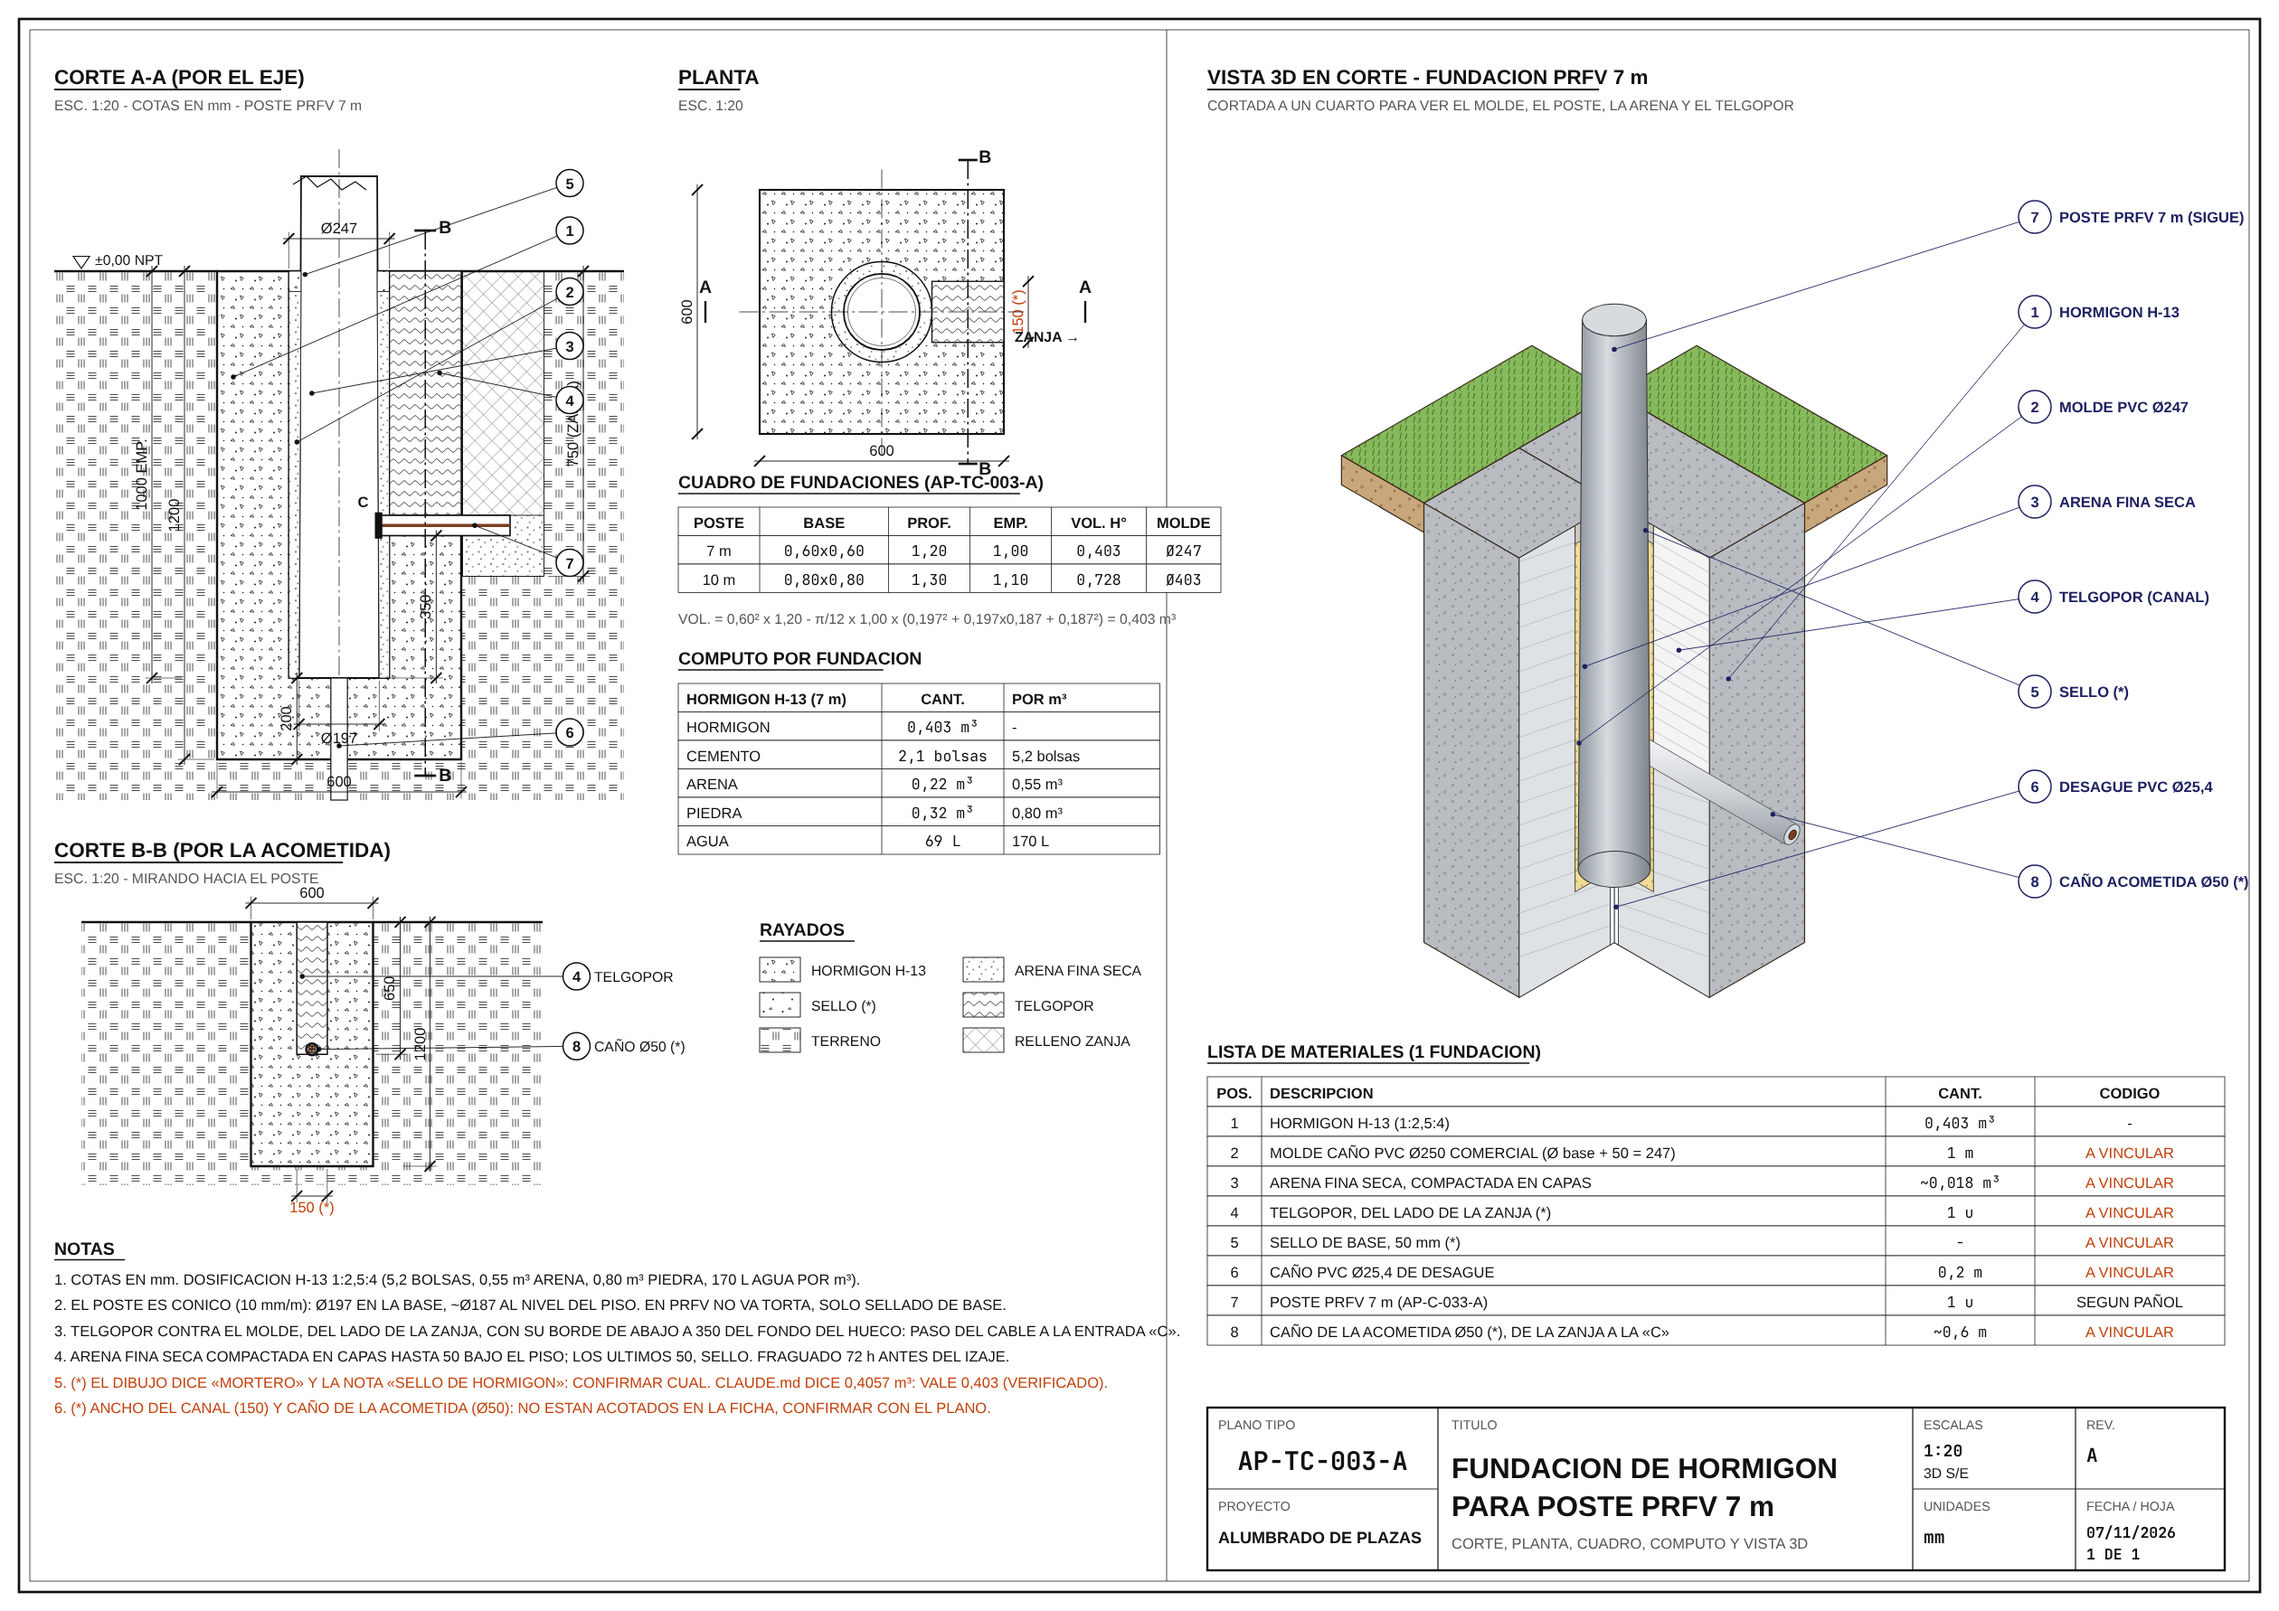
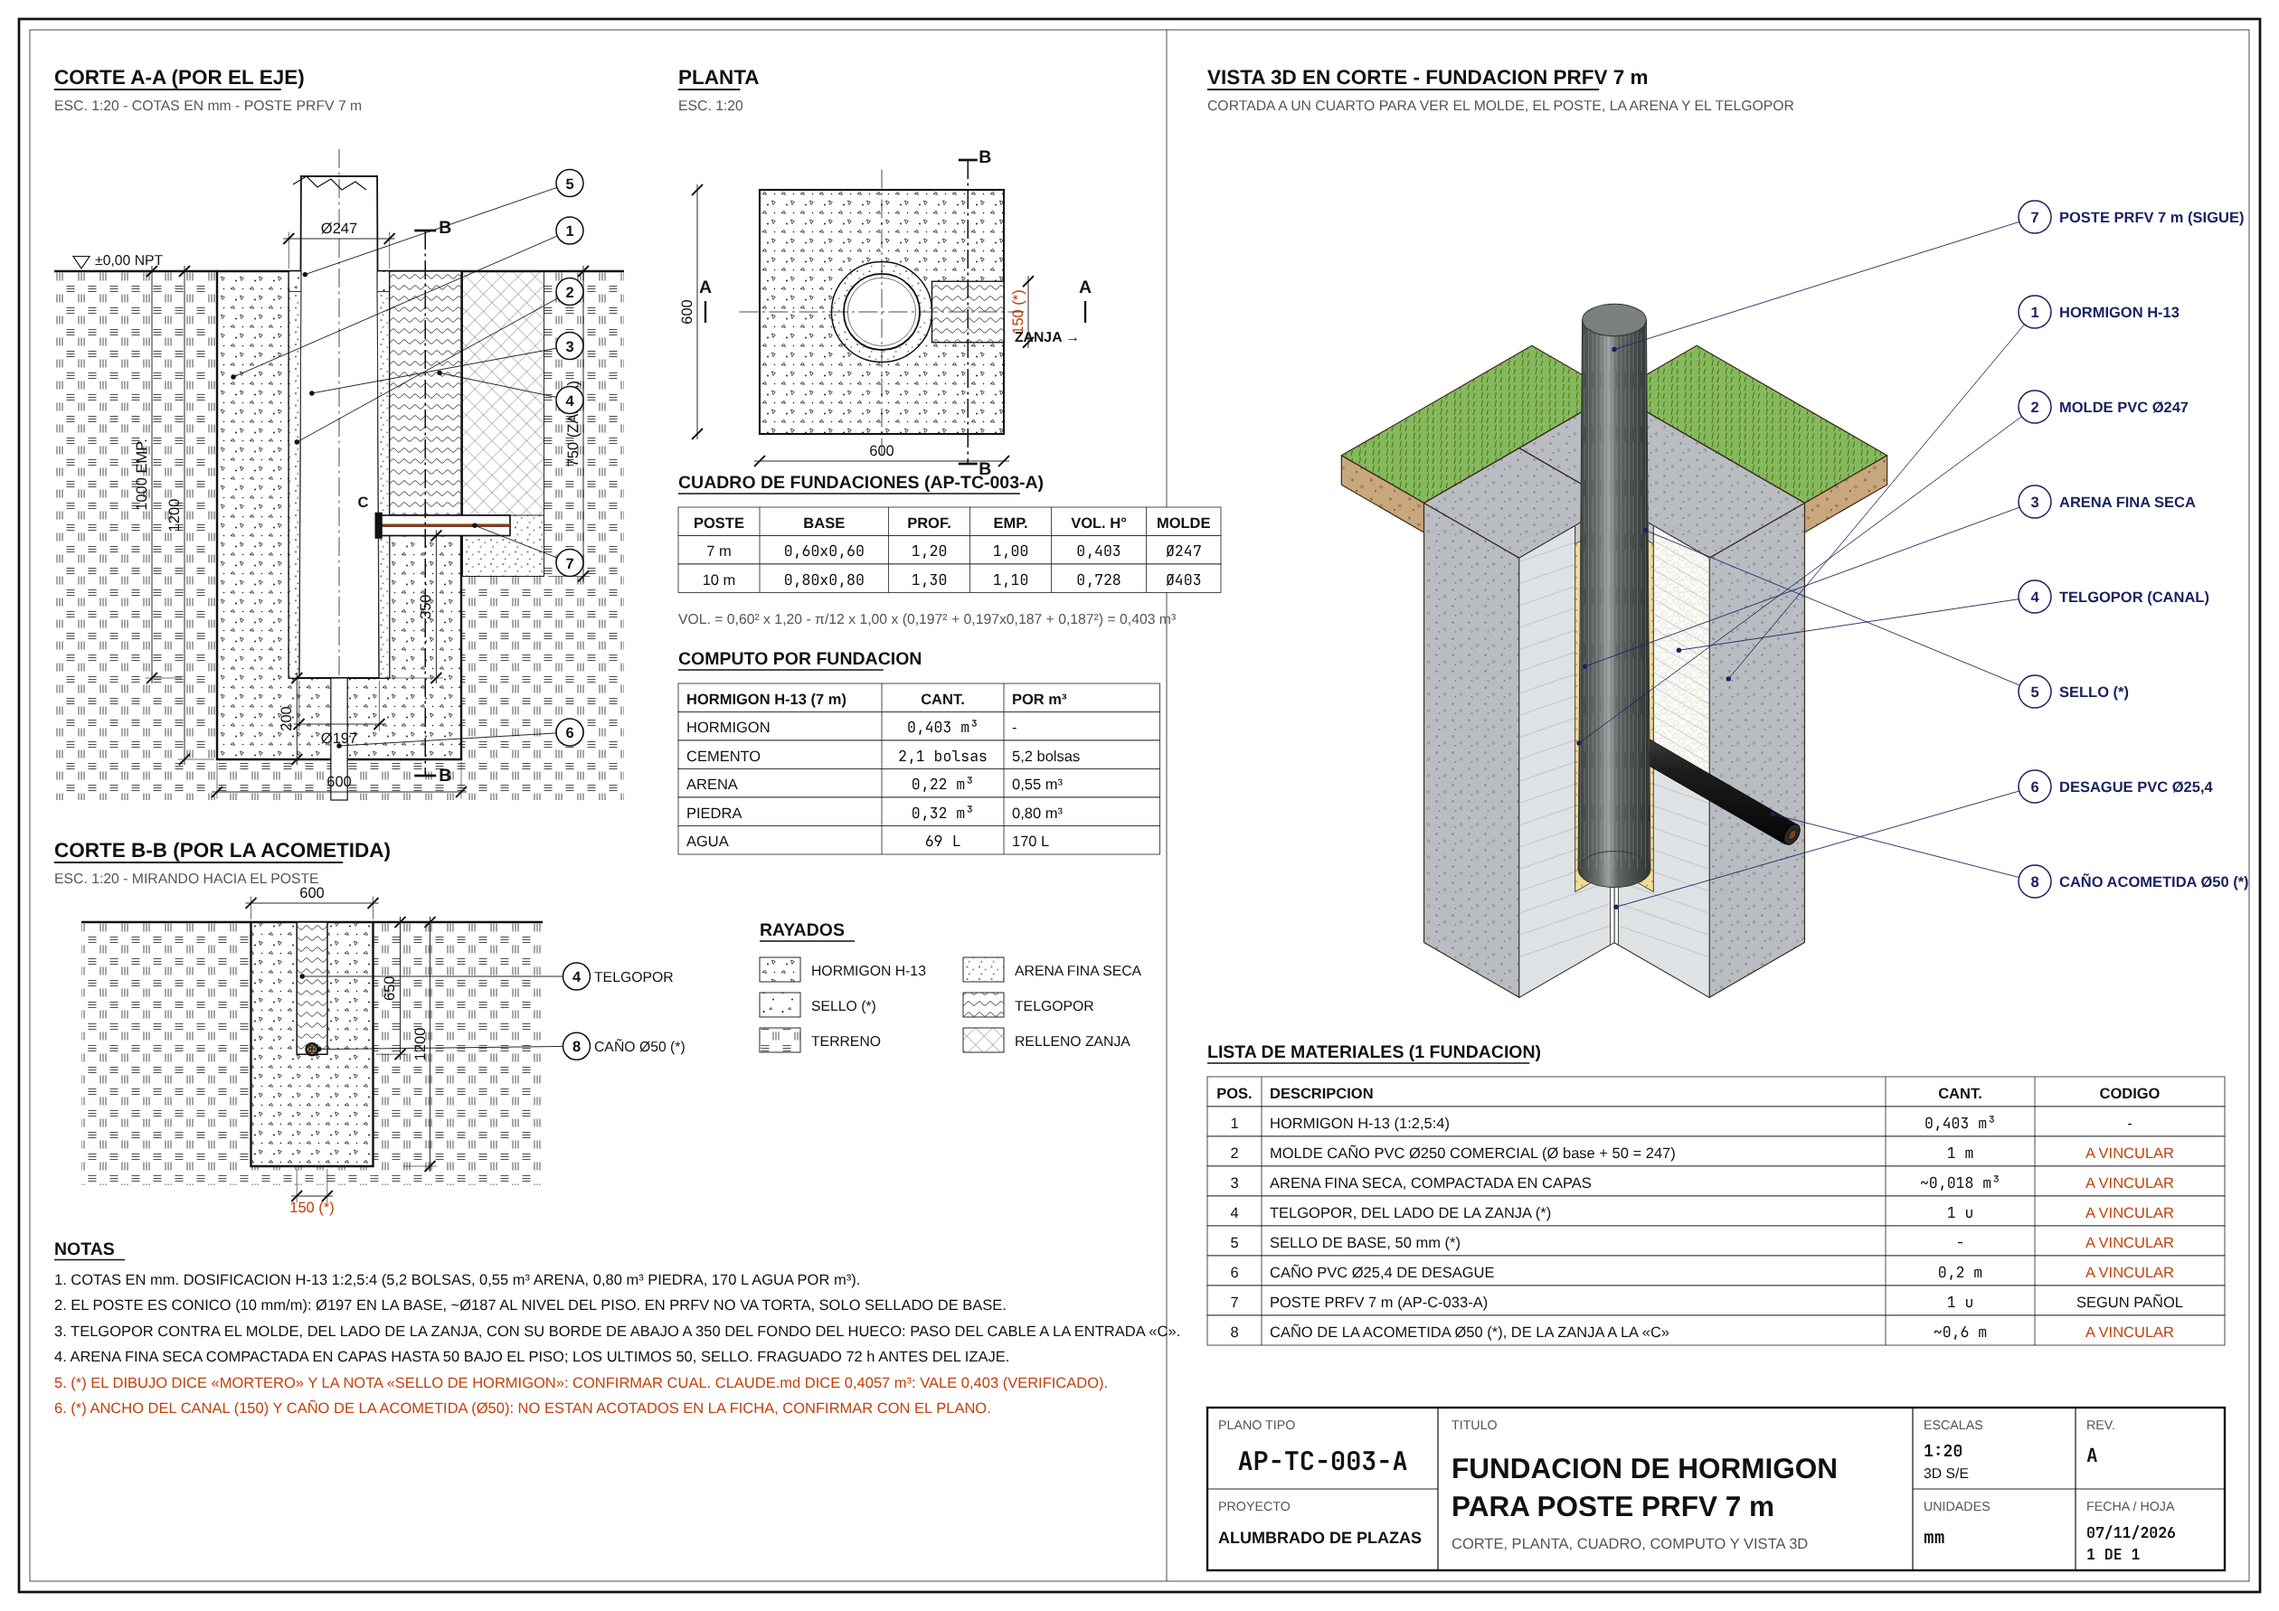
planos-tecnicos-ema: regla de materiales en el 3D (cada uno con color y textura propios; PRFV RAL 7043 con veta)
Claude-Session: https://claude.ai/code/session_01RXXMejSZKPShHcsNSB2vcm

Changed region(s): [[0.681, 0.1852, 0.8048, 0.5556]]

diff --git a/.claude/skills/planos-tecnicos-ema/scripts/planokit.py b/.claude/skills/planos-tecnicos-ema/scripts/planokit.py
@@ -8,6 +8,10 @@ K = "#111"; G = "#555"; OR = "#c2410c"; NV = "#1d2160"
 CAD = 'font-family="Arial Narrow,Roboto Condensed,Arial,sans-serif"'
 MONO = 'font-family="JetBrains Mono,monospace"'
 INT = 'font-family="Inter,Arial"'
+# MATERIALES EN 3D (regla de Ángel, 07/11/2026): cada material con color y textura propios; nunca dos vecinos parecidos.
+#  hormigón conc3 (gris claro, opaco, con áridos) · hormigón pobre concP3 (gris beige) · PRFV prfv + fibra (RAL 7043, gris oscuro
+#  satinado con veta) · acero galvanizado galv (gris azulado con brillo) · PVC pvc (gris muy claro, brillante) · PEAD pead (negro) ·
+#  bronce bronce · cobre cobre · arena sand3 · tierra soil3 · pasto grass · ladrillo lad3 · telgopor foam3 · malla mesh · asfalto asph3
 # colores de fase (AEA 90364): L1 marrón · L2 negro · L3 rojo · N celeste
 CORES = [("#7b3f1d", "L1 MARRON"), ("#1a1a1a", "L2 NEGRO"), ("#c62828", "L3 ROJO"), ("#4fa3d9", "N CELESTE")]
 DEFS = '''<defs>
@@ -28,7 +32,14 @@ DEFS = '''<defs>
 <pattern id="asph3" width="10" height="10" patternUnits="userSpaceOnUse"><rect width="10" height="10" fill="#4b4b4b"/><circle cx="3" cy="3" r=".9" fill="#6a6a6a"/><circle cx="8" cy="7" r=".8" fill="#5c5c5c"/></pattern>
 <linearGradient id="cyl" x1="0" y1="0" x2="0" y2="1"><stop offset="0" stop-color="#555"/><stop offset=".35" stop-color="#2a2a2a"/><stop offset="1" stop-color="#0d0d0d"/></linearGradient>
 <linearGradient id="pvc" x1="0" y1="0" x2="0" y2="1"><stop offset="0" stop-color="#f3f4f6"/><stop offset=".5" stop-color="#cfd3d8"/><stop offset="1" stop-color="#9aa0a6"/></linearGradient>
-<linearGradient id="prfv" x1="0" y1="0" x2="1" y2="0"><stop offset="0" stop-color="#8d949b"/><stop offset=".4" stop-color="#d7dbe0"/><stop offset="1" stop-color="#7d848b"/></linearGradient>
+<linearGradient id="prfv" x1="0" y1="0" x2="1" y2="0"><stop offset="0" stop-color="#3b403f"/><stop offset=".28" stop-color="#6b716f"/><stop offset=".42" stop-color="#9aa09d"/><stop offset=".55" stop-color="#5f6563"/><stop offset="1" stop-color="#2f3332"/></linearGradient>
+<pattern id="fibra" width="6" height="40" patternUnits="userSpaceOnUse"><path d="M1,0 V40 M4,6 V34" stroke="#c9cfcc" stroke-width=".35" opacity=".45"/></pattern>
+<linearGradient id="galv" x1="0" y1="0" x2="1" y2="0"><stop offset="0" stop-color="#7f8b96"/><stop offset=".35" stop-color="#dfe6ec"/><stop offset=".5" stop-color="#aab6c0"/><stop offset="1" stop-color="#6c7883"/></linearGradient>
+<linearGradient id="pead" x1="0" y1="0" x2="0" y2="1"><stop offset="0" stop-color="#3a3a3a"/><stop offset=".3" stop-color="#1c1c1c"/><stop offset="1" stop-color="#050505"/></linearGradient>
+<linearGradient id="bronce" x1="0" y1="0" x2="1" y2="1"><stop offset="0" stop-color="#e3b765"/><stop offset=".5" stop-color="#b9862f"/><stop offset="1" stop-color="#8a5f1c"/></linearGradient>
+<linearGradient id="cobre" x1="0" y1="0" x2="1" y2="0"><stop offset="0" stop-color="#9c5a1c"/><stop offset=".5" stop-color="#f0a860"/><stop offset="1" stop-color="#9c5a1c"/></linearGradient>
+<pattern id="foam3" width="9" height="9" patternUnits="userSpaceOnUse"><rect width="9" height="9" fill="#fbfbf7"/><circle cx="2.5" cy="2.5" r="2" fill="none" stroke="#d8d8cc" stroke-width=".5"/><circle cx="7" cy="6.5" r="2.2" fill="none" stroke="#d8d8cc" stroke-width=".5"/></pattern>
+<pattern id="lad3" width="26" height="13" patternUnits="userSpaceOnUse"><rect width="26" height="13" fill="#d9775a"/><path d="M0,.5 H26 M0,6.5 H26 M13,.5 V6.5 M0,6.5 V12.5" stroke="#8a3a24" stroke-width=".8" fill="none"/></pattern>
 </defs>'''
 
 class Hoja:
@@ -138,7 +149,10 @@ class Hoja:
         p0 = self.P(xc, yc, z0); p1 = self.P(xc, yc, z1)
         self.a(f'<polygon points="{p0[0]-w0:.1f},{p0[1]:.1f} {p1[0]-w1:.1f},{p1[1]:.1f} {p1[0]+w1:.1f},{p1[1]:.1f} {p0[0]+w0:.1f},{p0[1]:.1f}" fill="{fill}" stroke="{st}" stroke-width=".7"/>')
         self.a(f'<ellipse cx="{p0[0]:.1f}" cy="{p0[1]:.1f}" rx="{w0:.1f}" ry="{w0*.5:.1f}" fill="{fill}" stroke="{st}" stroke-width=".7"/>')
-        self.a(f'<ellipse cx="{p1[0]:.1f}" cy="{p1[1]:.1f}" rx="{w1:.1f}" ry="{w1*.5:.1f}" fill="#d7dbe0" stroke="{st}" stroke-width=".7"/>')
+        if fill == "url(#prfv)":   # PRFV: veta de la fibra a lo largo del poste
+            self.a(f'<polygon points="{p0[0]-w0:.1f},{p0[1]:.1f} {p1[0]-w1:.1f},{p1[1]:.1f} {p1[0]+w1:.1f},{p1[1]:.1f} {p0[0]+w0:.1f},{p0[1]:.1f}" fill="url(#fibra)" stroke="none"/>')
+        tapa = "#7a807e" if fill == "url(#prfv)" else "#d7dbe0"
+        self.a(f'<ellipse cx="{p1[0]:.1f}" cy="{p1[1]:.1f}" rx="{w1:.1f}" ry="{w1*.5:.1f}" fill="{tapa}" stroke="{st}" stroke-width=".7"/>')
     def g3(self, n, p, gx, gy, texto, c=NV):
         x, y = self.P(*p); self.globo(n, x, y, gx, gy, c, 12); self.txt(gx + 18, gy + 4, texto, 11, 700, c)
     def guardar(self, ruta):

diff --git a/.claude/skills/planos-tecnicos-ema/ejemplos/ap_tc_003a.py b/.claude/skills/planos-tecnicos-ema/ejemplos/ap_tc_003a.py
@@ -122,12 +122,12 @@ for zh in range(-1150,0,60):
 cara_y(c0,c0+rm,-Ez,0,"url(#sand3)"); cara_x(c0,c0+rm,-Ez,0,"url(#sand3)")
 cara_y(c0,c0+rm,-50,0,"url(#concP3)"); cara_x(c0,c0+rm,-50,0,"url(#concP3)")
 # telgopor del lado de la zanja (+x), borde de abajo a -650
-cara_y(c0+rm,Bz,-650+50,0,"#f4f4f4")
+cara_y(c0+rm,Bz,-650+50,0,"url(#foam3)")
 for z in range(-560,0,40):
     a1=h.P(c0+rm,c0,z); b1=h.P(Bz,c0,z); h.ln(*a1,*b1,"#bbb",.5)
 # canal del cable al borde exterior (+x) a la altura de la entrada «C»
-h.tuboX(c0+rp0,Bz+260,c0,-625,25,"url(#pvc)","#555")
-h.poly3(h.circX(Bz+260,c0,-625,25),"#d6d9dd","#555",.7); h.poly3(h.circX(Bz+262,c0,-625,12,16),"#7b3f1d","#000",.5)
+h.tuboX(c0+rp0,Bz+260,c0,-625,25,"url(#pead)","#000")
+h.poly3(h.circX(Bz+260,c0,-625,25),"#2a2a2a","#000",.7); h.poly3(h.circX(Bz+262,c0,-625,12,16),"#7b3f1d","#000",.5)
 # desagüe
 cara_y(c0,c0+13,-Pz,-Ez,"#fff"); cara_x(c0,c0+13,-Pz,-Ez,"#fff")
 # poste (cono) entero arriba y su mitad en el corte

diff --git a/.claude/skills/planos-tecnicos-ema/SKILL.md b/.claude/skills/planos-tecnicos-ema/SKILL.md
@@ -38,6 +38,27 @@ description: Estilo y método para dibujar los planos técnicos de EMA (tipos co
   - plano: Arial Narrow en MAYÚSCULAS;
   - números de tabla: JetBrains Mono;
   - texto del 3D: Inter.
+- **Materiales en el 3D: cada uno con su color y su textura, fieles a la realidad** (pedido de Ángel, 07/11/2026). **Nunca dos materiales vecinos que se parezcan.**
+
+  | Material | Patrón | Cómo se ve |
+  |---|---|---|
+  | Hormigón | `conc3` | gris claro, opaco, con áridos |
+  | Hormigón pobre o sello | `concP3` | gris beige |
+  | Poste PRFV | `prfv` | gris RAL 7043, oscuro y satinado, con la veta de la fibra (`fibra`); **no se tiene que parecer al hormigón** |
+  | Acero galvanizado | `galv` | gris azulado con brillo |
+  | PVC | `pvc` | gris muy claro y brillante |
+  | PEAD | `pead` | negro |
+  | Bronce y cobre | `bronce`, `cobre` | sus colores |
+  | Arena | `sand3` | — |
+  | Tierra | `soil3` | — |
+  | Pasto | `grass` | — |
+  | Ladrillo | `lad3` | con juntas |
+  | Telgopor | `foam3` | blanco con celdas |
+  | Malla de advertencia | `mesh` | naranja |
+  | Asfalto | `asph3` | — |
+  | Cables | — | cubierta negra; conductores marrón, negro, rojo, celeste; cobre |
+
+  Revisá en la imagen que se distingan.
 - **3D:** isométrico (x → derecha-abajo, y → izquierda-abajo, z arriba). Se ven las caras +x, +y y la de arriba. Colores: tierra `soil3`, arena `sand3`, hormigón `conc3`, pasto `grass`, malla `mesh`, PVC `pvc`, PRFV `prfv`.
 
 ## Datos: no se inventa nada
